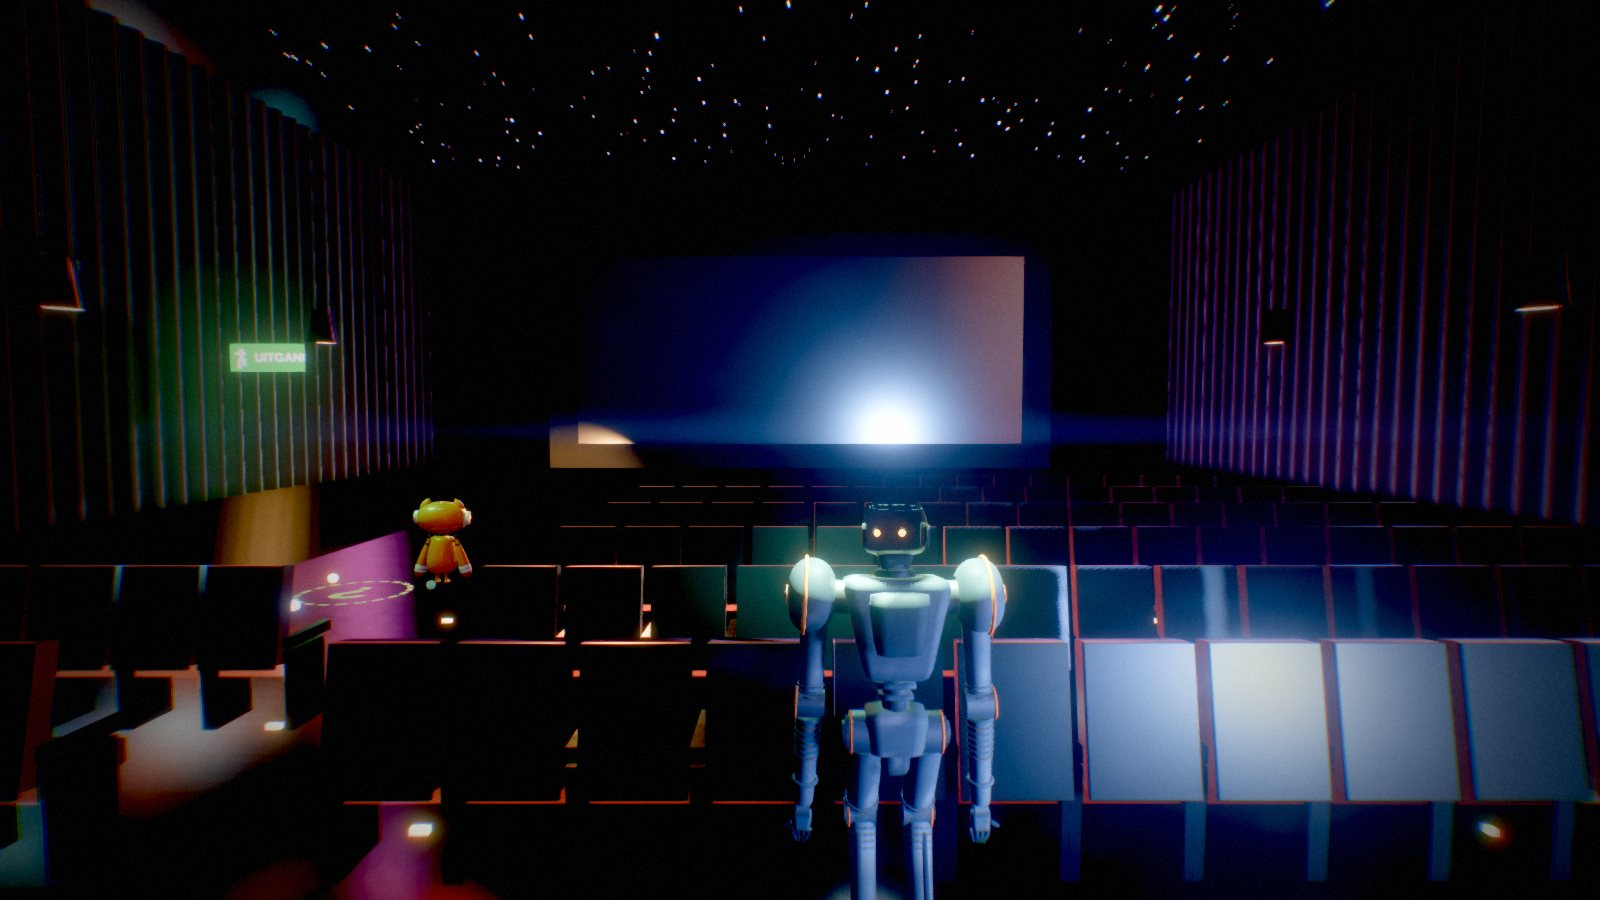
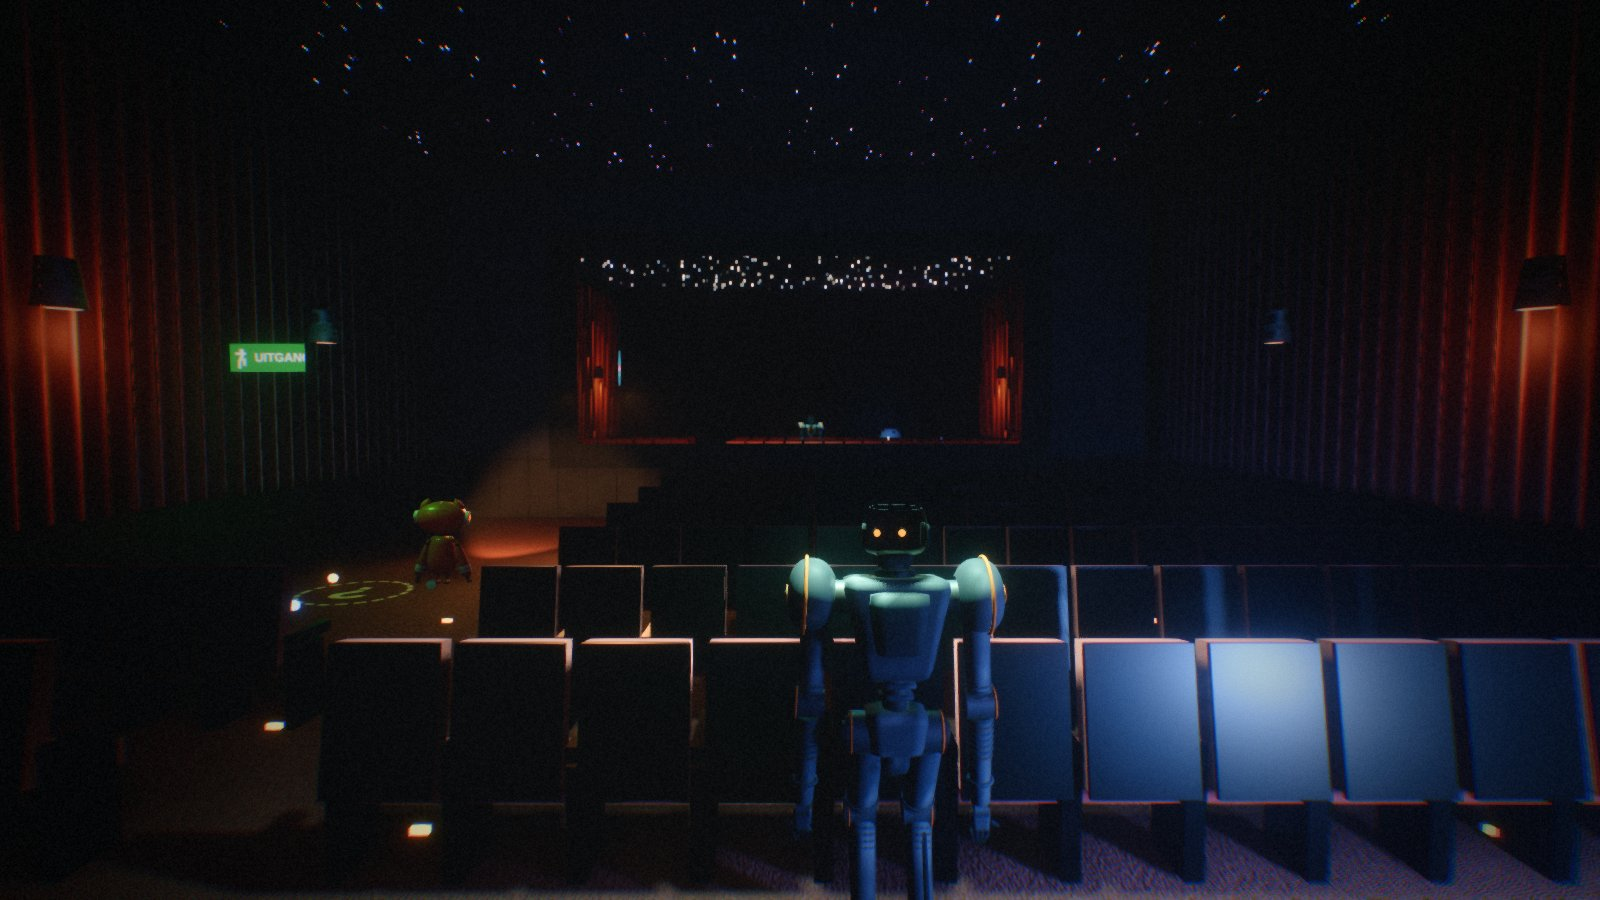
fix(3d): polish round 2 — baked materials were black; regrade for real albedo
fromSet() cloned the baked render-target textures to set their repeat.
A clone of a render-target texture has no image behind it and uploads
as black, so every procedural material had black albedo, zero
roughness and a garbage normal map. Use the baked textures directly.

With real albedo the scene was 2-3 stops hot, so the regrade:
exposure 1.35 -> 0.32, contrast 1.25, fog 0.028, env 0.5, hemisphere
0.18. The terrazzo is darker and finer, the ceiling stain is softer,
the BAR neon wash is weaker, cinema sconces cast real pooled light, and
the corridor soffit has linear slot fixtures.

Docs: genai notes, POC status, refreshed hero screenshots.

Claude-Session: https://claude.ai/code/session_0139bPQ2FapXv5hwBf7exBtT

diff --git a/src/render3d/venue.ts b/src/render3d/venue.ts
@@ -413,6 +413,10 @@ export function buildVenue(mats: Materials, refl: PlanarReflection): Venue3D {
         bulb.position.set(sx, 3.36, z);
         group.add(bulb);
         volumePoints.push({ position: V(sx, 3.2, z), color: new THREE.Color(1, 0.5, 0.18).multiplyScalar(0.25), range: 1.8 });
+        // A real (pooled) light too, so each sconce scallops the drape below it.
+        const wash = new THREE.PointLight(0xff8c3a, 10, 5, 2);
+        wash.position.set(sx + (x < r.x + r.w / 2 ? 0.25 : -0.25), 3.1, z);
+        group.add(wash);
       }
     }
     // Pleated velvet drapes down both side walls.
@@ -513,7 +517,7 @@ export function buildVenue(mats: Materials, refl: PlanarReflection): Venue3D {
     neon.position.set(bx, 3.6, bz - 0.2);
     group.add(neon);
     volumePoints.push({ position: V(bx, 3.6, bz), color: new THREE.Color(1, 0.12, 0.5).multiplyScalar(5), range: 6 });
-    const neonLight = new THREE.PointLight(0xff2a8a, 140, 12, 2);
+    const neonLight = new THREE.PointLight(0xff2a8a, 80, 12, 2);
     neonLight.position.set(bx, 3.4, bz + 0.4);
     group.add(neonLight);
     // Stools.
@@ -880,6 +884,34 @@ export function buildVenue(mats: Materials, refl: PlanarReflection): Venue3D {
       can.position.set(x, HEIGHTS.corridor - 0.03, z);
       group.add(can);
     }
+  }
+
+  // Linear slot fixtures down the soffit's centre line, one per bay: most dead
+  // (a dark diffuser still gives the ceiling a structure to read), every third
+  // on the emergency circuit. Emissive only — the floor doubles them into the
+  // long light lines a night interior is drawn with.
+  {
+    const bays = colXs.slice().sort((a, b) => a - b);
+    const zc = (c0 + c1) / 2;
+    const housing = new Buckets();
+    const liveMat = new THREE.MeshBasicMaterial({ color: new THREE.Color(0.85, 0.93, 1).multiplyScalar(9), toneMapped: false });
+    const deadMat = new THREE.MeshBasicMaterial({ color: new THREE.Color(0.5, 0.6, 0.8).multiplyScalar(0.06), toneMapped: false });
+    const live: THREE.BufferGeometry[] = [];
+    const dead: THREE.BufferGeometry[] = [];
+    for (let i = 0; i + 1 < bays.length; i++) {
+      const x0 = m(bays[i]) + 0.6;
+      const x1 = m(bays[i + 1]) - 0.6;
+      if (x1 - x0 < 1) continue;
+      const len = x1 - x0;
+      const cx = (x0 + x1) / 2;
+      housing.add(mats.darkMetal, box(len + 0.08, 0.07, 0.22, V(cx, HEIGHTS.corridor - 0.035, zc)));
+      const g = new THREE.BoxGeometry(len, 0.012, 0.12);
+      g.translate(cx, HEIGHTS.corridor - 0.075, zc);
+      (i % 3 === 1 ? live : dead).push(g);
+    }
+    housing.build(group);
+    if (live.length) group.add(new THREE.Mesh(mergeGeometries(live), liveMat));
+    if (dead.length) group.add(new THREE.Mesh(mergeGeometries(dead), deadMat));
   }
 
   /* ------------------------------------------------------- wall detail */

diff --git a/src/render3d/materials.ts b/src/render3d/materials.ts
@@ -233,13 +233,12 @@ export interface Materials {
   sets: Record<string, TextureSet>;
 }
 
-function fromSet(set: TextureSet, repeat = 1, extra: THREE.MeshPhysicalMaterialParameters = {}): THREE.MeshPhysicalMaterial {
-  const maps = [set.map, set.orm, set.normal].map((t) => {
-    const c = t.clone();
-    c.repeat.set(repeat, repeat);
-    c.needsUpdate = true;
-    return c;
-  });
+function fromSet(set: TextureSet, extra: THREE.MeshPhysicalMaterialParameters = {}): THREE.MeshPhysicalMaterial {
+  // The baked maps are render-target textures: used as they are, never cloned.
+  // A clone is a new Texture with no image behind it, and three uploads it as
+  // black — for a day every material here had black albedo, zero roughness and
+  // a garbage normal, and the venue was lit by its specular alone.
+  const maps = [set.map, set.orm, set.normal];
   return new THREE.MeshPhysicalMaterial({
     map: maps[0],
     roughnessMap: maps[1],
@@ -266,16 +265,16 @@ export function createMaterials(renderer: THREE.WebGLRenderer): Materials {
   };
   const m: Materials = {
     // One terrazzo texture repeat = 2.4 m (four 60 cm slabs), set by worldUV tile.
-    terrazzo: fromSet(sets.terrazzo, 1, { normalScale: new THREE.Vector2(0.6, 0.6) }),
-    carpet: fromSet(sets.carpet, 1),
-    carpetRed: fromSet(sets.carpetRed, 1),
-    plaster: fromSet(sets.plaster, 1, { normalScale: new THREE.Vector2(0.35, 0.35) }),
-    acoustic: fromSet(sets.acoustic, 1),
-    ceiling: fromSet(sets.ceiling, 1),
-    steel: fromSet(sets.steel, 1),
-    enamel: fromSet(sets.enamel, 1, { color: new THREE.Color(0.55, 0.06, 0.05), clearcoat: 0.4, clearcoatRoughness: 0.35 }),
-    velvet: fromSet(sets.velvet, 1, { sheen: 1, sheenColor: new THREE.Color(0.8, 0.2, 0.25), sheenRoughness: 0.4 }),
-    counter: fromSet(sets.counter, 1, { clearcoat: 1, clearcoatRoughness: 0.08 }),
+    terrazzo: fromSet(sets.terrazzo, { normalScale: new THREE.Vector2(0.6, 0.6) }),
+    carpet: fromSet(sets.carpet),
+    carpetRed: fromSet(sets.carpetRed),
+    plaster: fromSet(sets.plaster, { normalScale: new THREE.Vector2(0.35, 0.35) }),
+    acoustic: fromSet(sets.acoustic),
+    ceiling: fromSet(sets.ceiling),
+    steel: fromSet(sets.steel),
+    enamel: fromSet(sets.enamel, { color: new THREE.Color(0.55, 0.06, 0.05), clearcoat: 0.4, clearcoatRoughness: 0.35 }),
+    velvet: fromSet(sets.velvet, { sheen: 1, sheenColor: new THREE.Color(0.8, 0.2, 0.25), sheenRoughness: 0.4 }),
+    counter: fromSet(sets.counter, { clearcoat: 1, clearcoatRoughness: 0.08 }),
     darkMetal: new THREE.MeshPhysicalMaterial({ color: 0x15171b, roughness: 0.35, metalness: 0.9 }),
     blackGloss: new THREE.MeshPhysicalMaterial({ color: 0x050506, roughness: 0.08, metalness: 0, clearcoat: 1, clearcoatRoughness: 0.05 }),
     glass: new THREE.MeshPhysicalMaterial({

diff --git a/src/render3d/textures.ts b/src/render3d/textures.ts
@@ -210,16 +210,16 @@ export const TERRAZZO: SurfaceDef = {
   bump: 1.2,
   glsl: /* glsl */ `
 void surface(vec2 uv, out vec3 alb, out float rough, out float metal, out float ao, out float h){
-  vec2 per = vec2(64.);
-  vec2 c = cellT(uv * 64., per);
-  float id = cellIdT(uv * 64., per);
+  vec2 per = vec2(96.);
+  vec2 c = cellT(uv * 96., per);
+  float id = cellIdT(uv * 96., per);
   float chip = smoothstep(.34, .22, c.x);
   vec2 c2 = cellT(uv * 160. + 3.1, vec2(160.));
   float fleck = smoothstep(.18, .08, c2.x) * step(.55, hash12(floor(uv*160.)));
   vec3 binder = vec3(.030, .032, .036);
   vec3 chipCol = id < .5 ? vec3(.30, .31, .32) : id < .75 ? vec3(.62, .62, .60) : id < .9 ? vec3(.08, .08, .09) : vec3(.55, .22, .06);
-  alb = mix(binder, chipCol * .8, chip);
-  alb = mix(alb, vec3(.8), fleck * .6);
+  alb = mix(binder, chipCol * .32, chip);
+  alb = mix(alb, vec3(.6), fleck * .15);
   float cloud = fbmT(uv * 6., vec2(6.), 5);
   alb *= .75 + .5 * cloud;
   // Slab joints: 4x4 slabs per texture, brass strips.
@@ -229,7 +229,7 @@ void surface(vec2 uv, out vec3 alb, out float rough, out float metal, out float 
   // Polish: glossy with broad dull patches (grime, old wax), plus scratches.
   float dull = smoothstep(.45, .75, fbmT(uv * 3. + 1.7, vec2(3.), 5));
   float scr = scratchesT(uv, 24., 1.);
-  rough = .13 + .3 * dull + .25 * scr + .08 * chip;
+  rough = .07 + .32 * dull + .25 * scr + .05 * chip;
   rough = mix(rough, .35, joint);
   metal = joint * .9;
   ao = 1. - .5 * joint;
@@ -386,7 +386,7 @@ export const CEILING: SurfaceDef = {
 void surface(vec2 uv, out vec3 alb, out float rough, out float metal, out float ao, out float h){
   float n = fbmT(uv * 6., vec2(6.), 5);
   float stain = smoothstep(.6, .8, fbmT(uv * 2. + 9., vec2(2.), 5));
-  alb = vec3(.42, .42, .43) * (.85 + .3 * n) * (1. - .45 * stain);
+  alb = vec3(.42, .42, .43) * (.9 + .2 * n) * (1. - .18 * stain);
   rough = .9;
   metal = 0.;
   ao = 1.;

diff --git a/src/render3d/world.ts b/src/render3d/world.ts
@@ -68,7 +68,7 @@ export function createWorld3D(canvas: HTMLCanvasElement, opts: WorldOptions = {}
   // The faintest night fill: sky-blue from above, a bruise of magenta from the
   // floor, so a silhouette in an unlit corner still reads against the dark.
   // Bounce stand-in: the floor and the neons throw warm magenta up at the ceiling.
-  scene.add(new THREE.HemisphereLight(0x2a3a6a, 0x3a1636, 0.5));
+  scene.add(new THREE.HemisphereLight(0x2a3a6a, 0x3a1636, 0.18));
   const pipeline = new Pipeline(renderer, scene, cam.camera, quality);
   const venue: Venue3D = buildVenue(mats, pipeline.reflection);
   scene.add(venue.group);
@@ -140,7 +140,7 @@ export function createWorld3D(canvas: HTMLCanvasElement, opts: WorldOptions = {}
     }
     const envRT = pmrem.fromScene(scene, 0.02, 0.1, 80, { size: 256, position: PROBE });
     scene.environment = envRT.texture;
-    scene.environmentIntensity = 1.3;
+    scene.environmentIntensity = 0.5;
     for (const o of hidden) o.visible = true;
     for (const r of robots.values()) r.lamp.visible = true;
     envBaked = true;

diff --git a/src/render3d/pipeline.ts b/src/render3d/pipeline.ts
@@ -92,7 +92,8 @@ export interface Grade {
 
 export function defaultGrade(): Grade {
   return {
-    exposure: 1.35,
+    // Tuned with real albedo; the old 1.35 compensated for the black-map bug.
+    exposure: 0.32,
     bloomStrength: 0.035,
     dirtStrength: 0.12,
     streakStrength: 0.05,
@@ -101,12 +102,12 @@ export function defaultGrade(): Grade {
     vignette: 0.55,
     grain: 0.045,
     saturation: 1.15,
-    contrast: 1.18,
+    contrast: 1.25,
     shadowTint: new THREE.Color(0.82, 1.0, 1.12),
     highlightTint: new THREE.Color(1.08, 0.97, 0.92),
     aoStrength: 0.9,
     volStrength: 1.0,
-    fogDensity: 0.035,
+    fogDensity: 0.028,
     fogHeightFalloff: 0.18,
     fogBase: 0,
     fogNoise: 0.7,

diff --git a/docs/genai-notes.md b/docs/genai-notes.md
@@ -1629,3 +1629,36 @@ corridor carried past the fire door to both secondary staircases (the Devoxx hal
 in the photos), the foyer back bar, lacquered wall panels, headlamp glare, and cinema E's screen as
 a real mirror, which makes the puzzle's key object explain itself. Six hero screenshots are in
 `docs/3d-poc/`. The playable build was republished to the same private artifact after each round.
+
+### 24 Sep 2026 (morning) — 3D POC: two polish rounds
+
+**Human decisions.** Michele confirmed the fork base (the 2.5D branch), kept the design deviations
+and the "is 3D worth it" question for himself, opened network access for reference screenshots,
+and asked for "a couple rounds" of polish. The access change had not reached this session's
+container (the egress proxy still refused nvidia.com, steampowered.com and wikimedia.org), so the
+rounds were judged against the written checklist of Cyberpunk 2077's look again, not against pictures.
+
+**What the agent found, frame by frame:**
+- *Every procedural material had been rendering with black albedo.* `fromSet()` cloned each baked
+  render-target texture to set its repeat; a clone of a render-target texture is a Texture with no
+  image behind it, and three uploads it as black. So albedo was 0, roughness 0 (hence mirror floors
+  that no roughness tweak could soften) and the normal map was garbage. Last night's lighting was
+  tuned against that: lights raised 6×, exposure 1.35, a strong ambient. Found by tinting the
+  ceiling red to prove it was drawn, lighting it with a 300 cd test lamp that did nothing, swapping
+  its maps out one at a time, then reading the texture's pixels back on the GPU. Fix: use the baked
+  textures as they are (all repeats were 1). Exposure then fell to 0.32; env and ambient came down.
+- The composite's contrast was a linear stretch around mid-grey, which clipped everything below
+  ~0.03 to pure black. It is now a power curve around mid-grey.
+- Blurred coloured blobs in the foyer were the corridor's environment probe box-projected onto the
+  floor: three overwrites `envMapIntensity` with `scene.environmentIntensity` whenever the env comes
+  from `scene.environment`, so zeroing it on the floor material never worked. Planar-reflective
+  materials now switch env specular off with a shader define.
+- Robot lamp flares were being mirrored into the floor; they are hidden from the reflection pass.
+- Rough floor reflections now smear vertically (the long neon streaks of a wet night floor), and
+  reflectivity is patchy. Neon signs got a dim halo and a distinct tube and core so the letters
+  survive bloom. The back bar got frosted backlit glass and 66 bottles. The corridor soffit got
+  linear slot fixtures, most of them dead.
+
+**Rejected:** guessing at the flat, over-bright look with more grading before finding the cause.
+Two exposure passes (0.8, 0.62) barely moved it, because AgX compresses in log space. That was the
+hint that the scene itself was 2–3 stops too hot.

diff --git a/docs/3d-poc.md b/docs/3d-poc.md
@@ -75,15 +75,15 @@ host tried (`www.nvidia.com`, `store.steampowered.com` and the Steam CDNs, `uplo
 look — deep blacks with saturated coloured light, wet reflective floors doubling every neon, haze
 with visible shafts, bloom and lens artefacts, animated signage, dense surface detail, a
 yellow/cyan/coral UI — and each round was a screenshot set (corridor, foyer, cinema E, fire door)
-judged against it. Allowing one of those hosts in the environment's network settings would let the
-next round compare side by side.
+judged against it. Access was allowed on 24 Sep, but the change had not reached the running
+container; a fresh session should be able to fetch them.
 
 ## Where it stands against that bar
 
 Close on: the lighting language (coloured practicals, visible beams, reflections, bloom, grade),
 signage and screens, the cinema interiors. Still clearly short on: **surface detail density** (walls
-and props are mostly bevel-less boxes; no decals, clutter, cables, graffiti), **indirect light**
-(big areas go to pure black where a path-traced game would bounce the neon around), and **character
+and props are mostly bevel-less boxes, with some decals, clutter and cables), **indirect light**
+(a hemisphere and an environment capture stand in for bounce), and **character
 detail** (the robots are the sheets' clean primitives). No browser renderer gets to Cyberpunk's
 path-traced Overdrive mode; the honest target is its rasterised look, and the gap there is mostly
 content, not pipeline.
@@ -101,6 +101,10 @@ content, not pipeline.
   him white); the pool on the floor keeps the sim's radius.
 
 ## Known gaps
+
+- Until 24 Sep every procedural material rendered with black albedo (see `docs/genai-notes.md`).
+  The look was re-graded after the fix, but lights placed during the black-albedo night may still
+  be hotter than they need to be.
 
 - Chapter 1 only; the walk-out cutscene ends at the top of the 3|4 staircase and cuts to the card.
 - Performance is untested on real GPUs (developed on a software renderer, ~10 s a frame at
